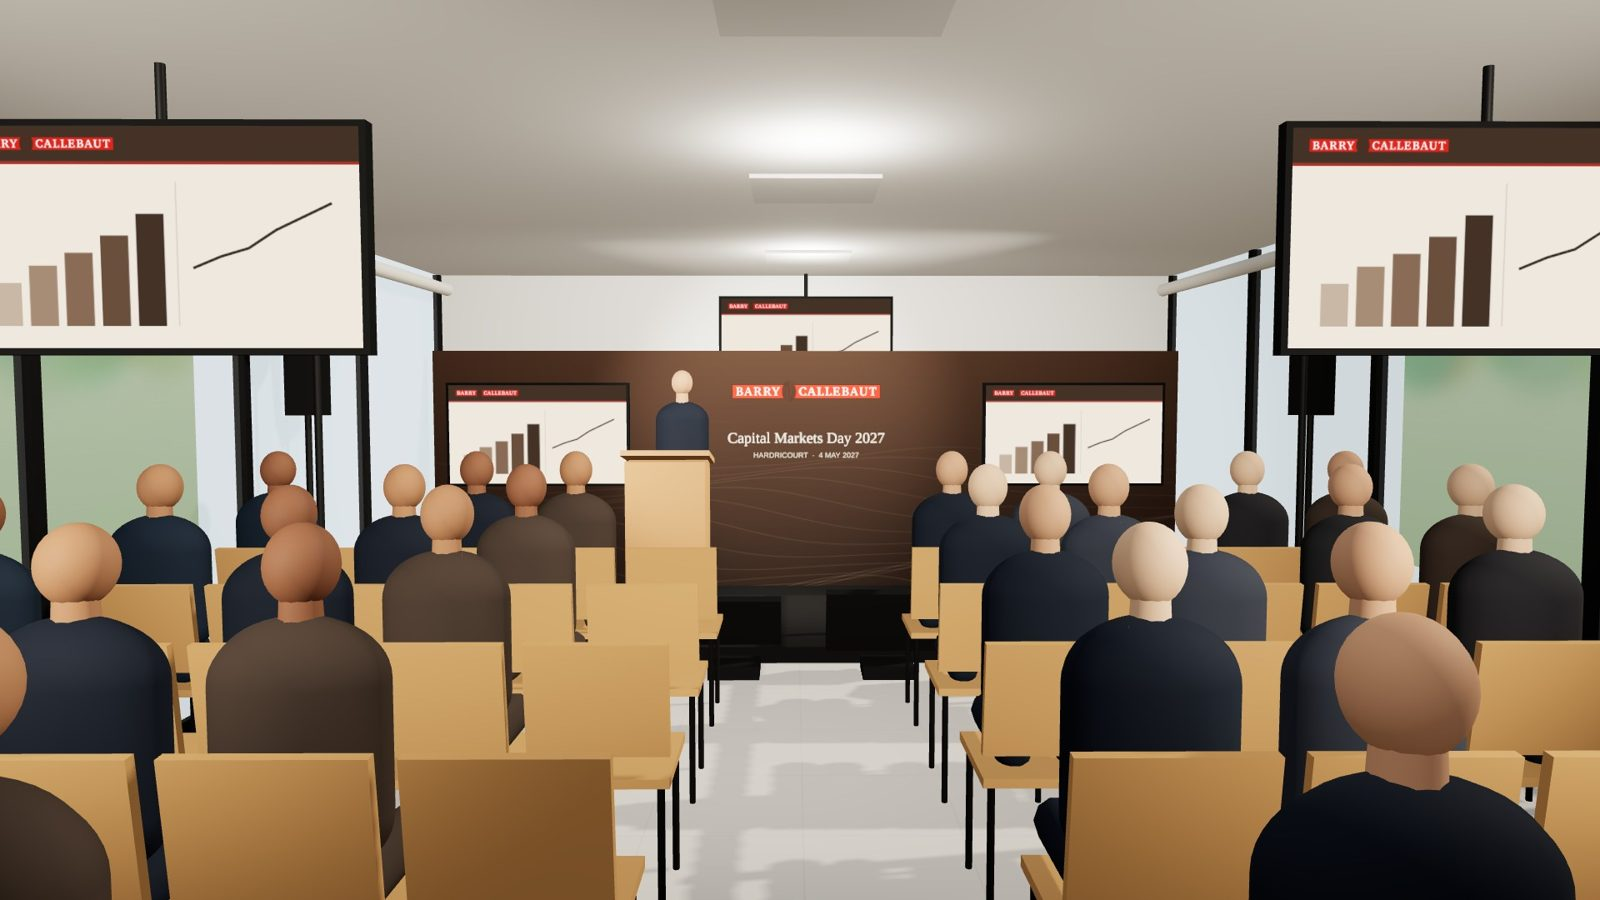
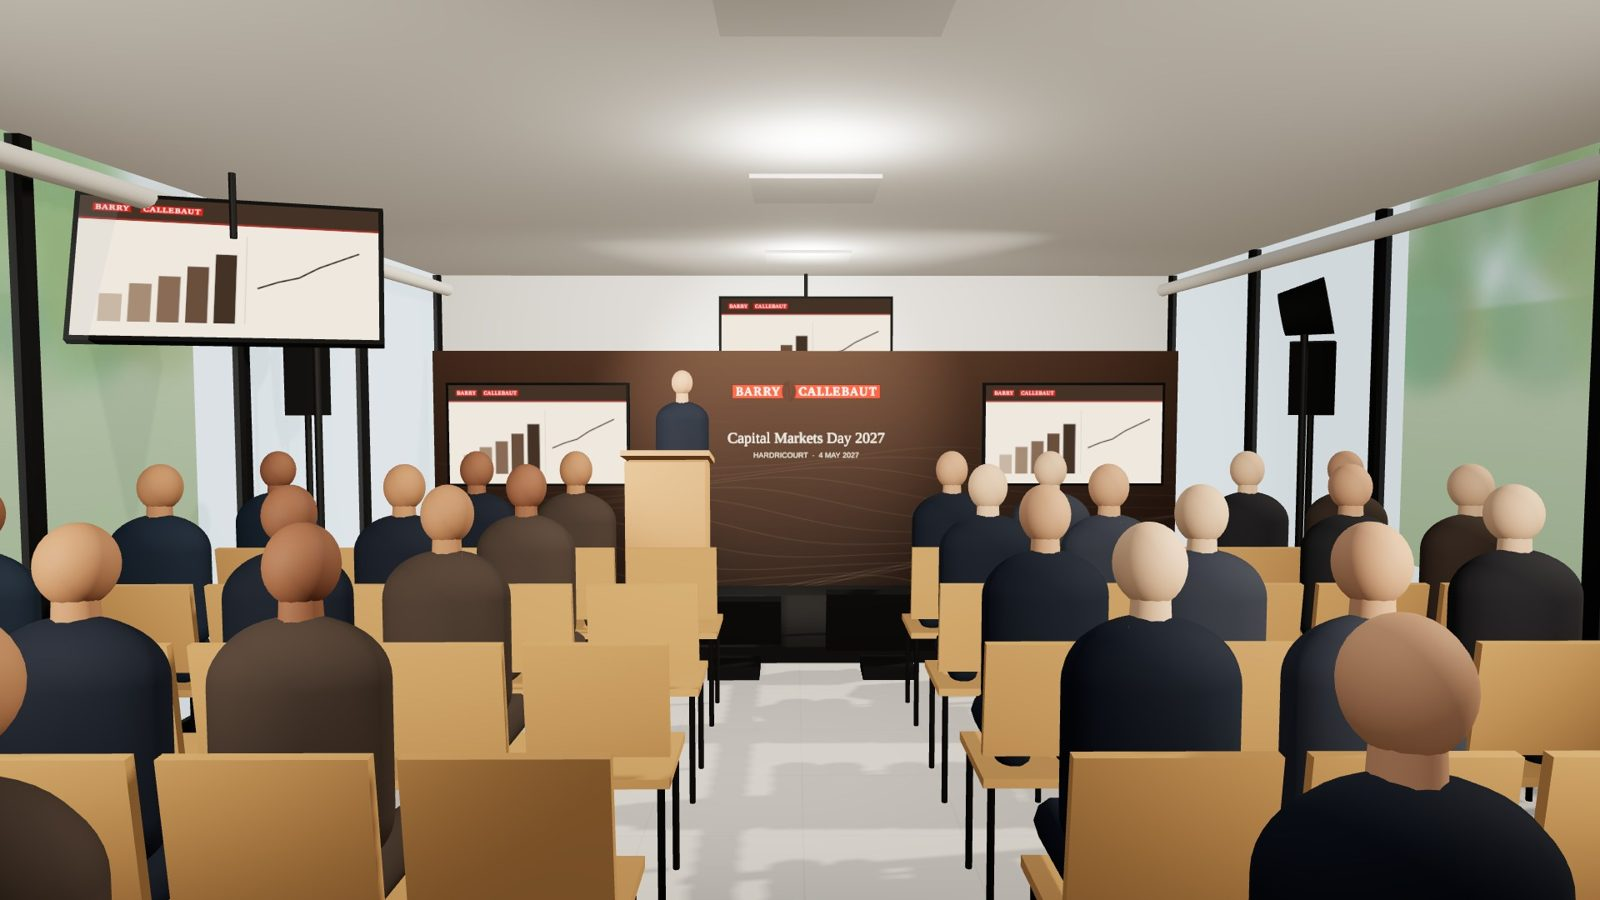
CMD 2027: return screens placed per Solufak plan
Claude-Session: https://claude.ai/code/session_01SERCd16xWWigcERCXdqyMT

Changed region(s): [[0.0, 0.0622, 0.25, 0.4044], [0.7812, 0.0622, 1.0, 0.4044]]

diff --git a/callebautCMDProposal/index.html b/callebautCMDProposal/index.html
@@ -77,7 +77,7 @@
 <div class="section-3d" id="visuals" style="margin-top:34px"><span class="label">3D visuals · to scale</span><h3>The room on the day.</h3>
 <div class="tabs" aria-label="3D view"><button class="tab" data-view="audience" aria-pressed="true">From the audience</button><button class="tab" data-view="stage" aria-pressed="false">The set</button><button class="tab" data-view="webcast" aria-pressed="false">Webcast camera</button><button class="tab" data-view="overview" aria-pressed="false">Overview</button><button class="tab" data-view="backdrop" aria-pressed="false">Backdrop artwork</button></div>
 <button class="image-button" id="view-zoom" data-zoom="/callebautCMDProposal/assets/3d-audience.jpg" data-caption="From the audience"><img id="view-image" src="/callebautCMDProposal/assets/3d-audience.jpg" alt="3D view from the back of the audience towards the set" loading="lazy"></button>
-<div class="caption"><span id="view-caption">From the back of the room: the 6 m backdrop, the two 65" screens on it, and the house return screens carrying the same slides.</span><span class="enlarge">Select image to enlarge</span></div>
+<div class="caption"><span id="view-caption">From the back of the room: the 6 m backdrop, the two 65" screens on it, and the room's 55" return screen on the side wall carrying the same slides.</span><span class="enlarge">Select image to enlarge</span></div>
 <button class="print three-d-start" id="explore">Explore the room in 3D</button><div class="viewer" id="viewer" hidden><span class="hint">Drag to orbit · scroll or pinch to zoom</span></div>
 </div>
 <div class="columns"><div><span class="label">Set</span><p>A 6 m wide printed backdrop at the end of the room, quoted at 2 m and taken as high as the confirmed ceiling allows. It sits in front of the house 65", so the higher it goes, the cleaner the camera shot. A 4 × 2 m stage, 10 cm high with black carpet and skirt, lifts speakers just enough without eating into the height. Two 65" screens sit on the backdrop left and right of the stage, so the slides stay clear of a presenter at the centre, and the house 65" and 55" return screens carry the same feed.</p><span class="label">Daylight</span><p>Flat screens instead of projection, four daylight-balanced LED fixtures on stands so speakers look natural on camera, and cameras pointing away from the glazing. The roll-down curtains stay available for direct sun.</p></div><div><span class="label">Sound</span><p>Four headset microphones for the speakers and two handhelds for the closing Q&amp;A, on four compact L-Acoustics speakers: two at the front, two halfway down. With a low ceiling and hard surfaces, that keeps the sound clear and feedback down.</p><span class="label">From speeches to Q&amp;A</span><p>One presenter at a time on the platform. For the final all-speaker Q&amp;A, the lectern comes off and a row of chairs goes on, with questions taken from the room only.</p></div></div>
@@ -163,7 +163,7 @@ document.querySelectorAll('[data-desktop]').forEach(b=>b.addEventListener('click
 const dialog=document.querySelector('#zoom');document.querySelectorAll('[data-zoom]').forEach(b=>b.addEventListener('click',()=>{document.querySelector('#zoom-image').src=b.dataset.zoom;document.querySelector('#zoom-image').alt=b.dataset.caption;document.querySelector('#zoom-caption').textContent=b.dataset.caption;dialog.showModal()}));dialog.querySelector('.close').addEventListener('click',()=>dialog.close());dialog.addEventListener('click',e=>{if(e.target===dialog)dialog.close()});
 </script>
 <script type="module">
-const views={audience:['3d-audience.jpg','From the audience','From the back of the room: the 6 m backdrop, the two 65" screens on it, and the house return screens carrying the same slides.'],stage:['3d-stage.jpg','The set','The 4 × 2 m stage, 10 cm high, in front of the printed backdrop. Lights and speakers stand at the sides, clear of the sightlines.'],webcast:['3d-webcast.jpg','Webcast camera','What the centre PTZ camera sees: a calm, branded background with the glazing out of shot.'],overview:['3d-overview.jpg','Overview','The whole room from above: set, 60 seats in two blocks, cameras and control behind a 1.2 m black drape, coffee bar at the rear.'],backdrop:['3d-backdrop.jpg','Backdrop artwork','The 6 × 2 m printed backdrop: cocoa contours, the logo above the presenter, and a fine red line at the base. Final artwork from your brand team.']};
+const views={audience:['3d-audience.jpg','From the audience','From the back of the room: the 6 m backdrop, the two 65" screens on it, and the room's 55" return screen on the side wall carrying the same slides.'],stage:['3d-stage.jpg','The set','The 4 × 2 m stage, 10 cm high, in front of the printed backdrop. Lights and speakers stand at the sides, clear of the sightlines.'],webcast:['3d-webcast.jpg','Webcast camera','What the centre PTZ camera sees: a calm, branded background with the glazing out of shot.'],overview:['3d-overview.jpg','Overview','The whole room from above: set, 60 seats in two blocks, cameras and control behind a 1.2 m black drape, coffee bar at the rear.'],backdrop:['3d-backdrop.jpg','Backdrop artwork','The 6 × 2 m printed backdrop: cocoa contours, the logo above the presenter, and a fine red line at the base. Final artwork from your brand team.']};
 document.querySelectorAll('[data-view]').forEach(b=>b.addEventListener('click',()=>{document.querySelectorAll('[data-view]').forEach(x=>x.setAttribute('aria-pressed',String(x===b)));const [f,t,c]=views[b.dataset.view],path='/callebautCMDProposal/assets/'+f;const img=document.querySelector('#view-image'),z=document.querySelector('#view-zoom');img.src=path;img.alt=t;z.dataset.zoom=path;z.dataset.caption=t;document.querySelector('#view-caption').textContent=c}));
 document.querySelector('#explore').addEventListener('click',async e=>{e.target.disabled=true;e.target.textContent='Loading the 3D room…';
  const THREE=await import('three');const {OrbitControls}=await import('three/addons/controls/OrbitControls.js');const {buildScene}=await import('/callebautCMDProposal/scene3d.js');

diff --git a/callebautCMDProposal/scene3d.js b/callebautCMDProposal/scene3d.js
@@ -181,11 +181,13 @@ export async function buildScene(THREE, { assetBase = '' } = {}) {
     sp.lookAt(x + (x < 4 ? 6 : 6), 1.2, 0);
   }
 
-  // house 55" return screens, ceiling-hung mid-room, facing the rear rows
-  for (const z of [-2.0, 2.0]) {
-    add(box(0.05, 0.70, 1.24), mBlack, 5.4, 2.12, z);
-    add(new THREE.PlaneGeometry(1.2, 0.66), mSlide, 5.427, 2.12, z, { ry: Math.PI / 2, cast: false });
-    add(cyl(0.015, 0.015, 0.2), mSteel, 5.4, 2.55, z);
+  // house 55" return screens: per Solufak's plan, both hung along one long wall, tilted down 20°, ~3.9 m and ~9.4 m from the main display end
+  for (const x of [3.9, 9.4]) {
+    const g = new THREE.Group(); g.position.set(x, 2.2, hw - 0.45); g.rotation.y = Math.PI / 2 + 0.35; scene.add(g);
+    const t = new THREE.Group(); t.rotation.x = -0.35; g.add(t);
+    add(box(1.24, 0.70, 0.05), mBlack, 0, 0, 0, { parent: t });
+    add(new THREE.PlaneGeometry(1.2, 0.66), mSlide, 0, 0, 0.027, { parent: t, cast: false });
+    add(cyl(0.015, 0.015, 0.3), mSteel, x, 2.5, hw - 0.45);
   }
 
   // 60 chairs: 6 rows of 10, centre aisle
